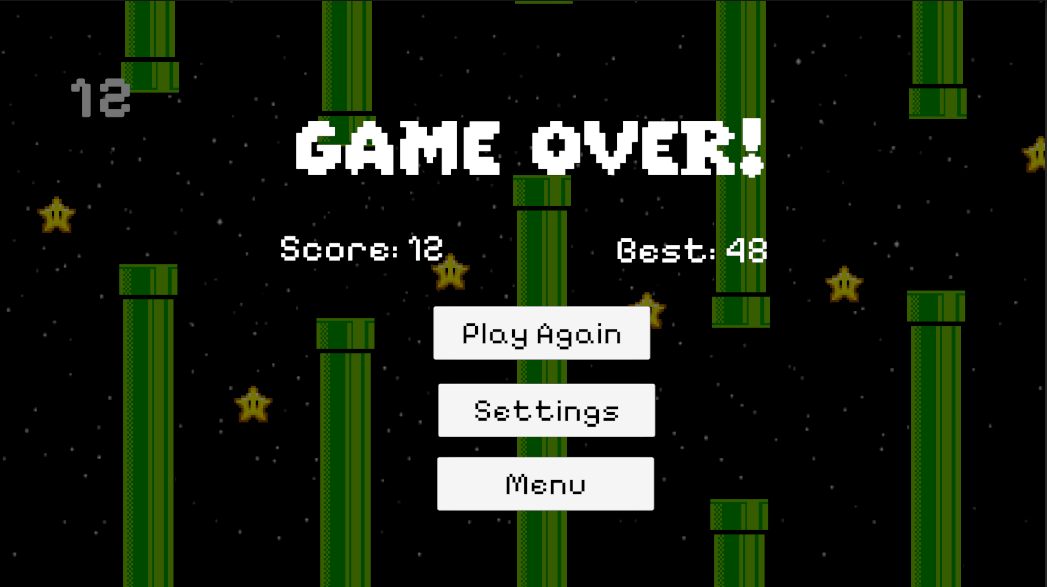
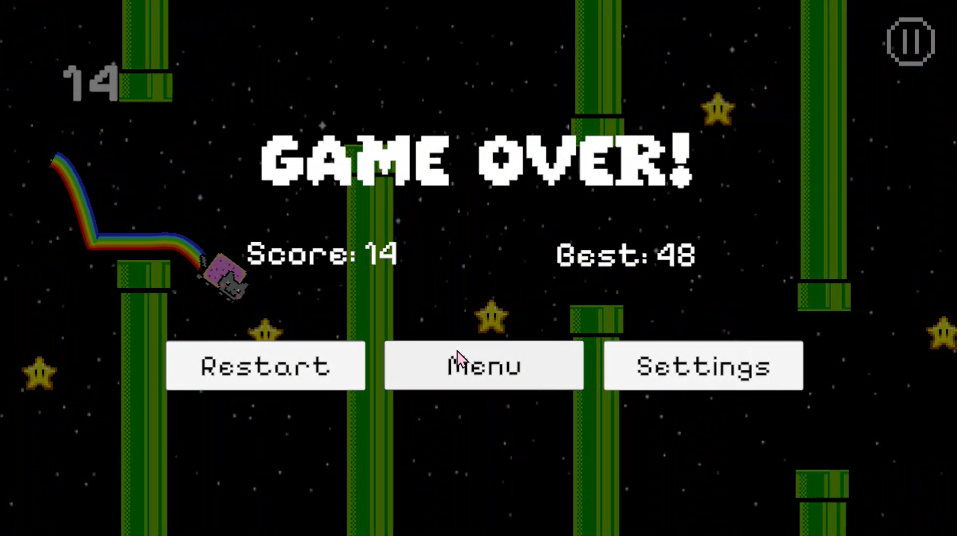
update readme and media files

diff --git a/README.md b/README.md
@@ -5,13 +5,20 @@ Guide Nyan Cat through pipes, avoid collisions, collect stars, and try to beat y
 
 This project was developed as a personal portfolio project to practice game development, Unity systems, and C# scripting.
 
-🎮 [Play in Browser](https://nivedi06.itch.io/flappy-nyan-cat)
+🎮 **[Play in Browser on Itch.io](https://nivedi06.itch.io/flappy-nyan-cat)**
+
+---
+
+## 🎮 Gameplay Preview
+
+![Flappy Nyan Cat Gameplay](Screenshots/FlappyNyanCat-demo.gif)  
+*Demonstration of gameplay, settings access, and UI navigation.*
 
 ---
 
 ## Features
 
-- **Score tracking** with high score saving (PlayerPrefs)  
+- **Score tracking** with high score saving (`PlayerPrefs`)  
 - **Main Menu**, Pause, and Game Over screens  
 - **Audio system**  
   - Background music  
@@ -27,51 +34,75 @@ This project was developed as a personal portfolio project to practice game deve
 
 ## Tech Stack
 
-- Unity  
-- C#  
-- TextMeshPro  
-- PlayerPrefs (for saving data)  
-- Unity UI System  
+- **Engine:** Unity  
+- **Language:** C#  
+- **UI:** TextMeshPro & Unity UI System  
+- **Data Persistence:** PlayerPrefs (for saving high scores and audio settings)  
 
 ---
 
-## Gameplay
+## Gameplay & Controls
 
 - Press **Space** to make Nyan Cat jump  
 - Avoid pipes and obstacles  
 - Collect stars to increase your score  
-- Game ends on collision with pipes
+- Game ends on collision with pipes  
 - **Info Panel:** Access the info panel from the menu to see detailed instructions and game controls    
 - Try to beat your **high score** each run
 
 ---
 
-## How to Run
+## How to Run Locally
 
-1. Open the project in **Unity Hub**  
-2. Open the `MenuScene`  
-3. Press **Play** in the Unity Editor  
+1. Clone this repository to your local machine.
+2. Open the project in **Unity Hub** (Developed using version: **6000.3.1f1**).  
+3. Open the `MenuScene` located in your project scenes.  
+4. Press **Play** in the Unity Editor.  
 
 ---
 
 ## Screenshots
+
+> 💡 **Note on Platform Optimization:** The standalone desktop build includes an **Exit** button on the Main Menu. This button has been intentionally omitted from the live web build hosted on Itch.io, as browser-based games are optimized to be managed via browser tab controls.
+
+### 🏠 Main Menu
 ![Menu Screen](Screenshots/Menu.png)  
-*Main menu with Play, Settings, Info (at the top right corner) and Exit*
+*Main menu featuring Play, Settings, Exit, and Info (top-right corner).*
 
+---
+
+### ℹ Info Panel
+![Info Panel](Screenshots/GameInfoPanel.png)  
+*The overlay info panel explaining game controls and objectives to new players.*
+
+---
+
+### ⚙ Settings Panel
+![Settings Panel](Screenshots/GameSettingsPanel.png)  
+*The settings menu featuring interactive volume sliders, music vs sfx toggles, and music track switching.*
+
+---
+
+### 🎮 Gameplay
 ![Gameplay](Screenshots/GamePlay.png)  
-*Nyan Cat avoiding pipes and collecting stars*
+*Nyan Cat avoiding pipes and collecting stars.*
 
+---
+
+### ⏸ Game Paused
+![Game Paused Screen](Screenshots/GamePaused.png)  
+*Pause overlay menu accessible mid-game to quickly manage settings, resume play, restart, or go back*
+
+---
+
+### 💀 Game Over Screen
 ![Game Over Screen](Screenshots/GameOver.png)  
-*Score tracking and high score display*
+*Score tracking and real-time high score display.*
 
 ---
 
-## Project Status
+## 🏁 Project Status
 
-This project is actively being improved. Future updates may include:  
+This project is completed and serves as a polished portfolio piece demonstrating core Unity systems, UI state management, and C# scripting.
 
-- Additional polish and bug fixes  
-- Visual improvements  
-- More gameplay features  
-
----
+While minor visual quirks may exist depending on different browser environments, the project is stable and ready to play.
